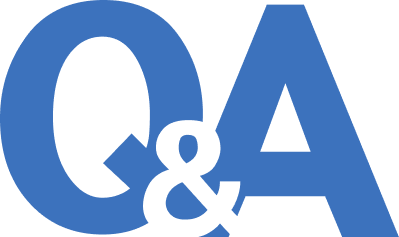
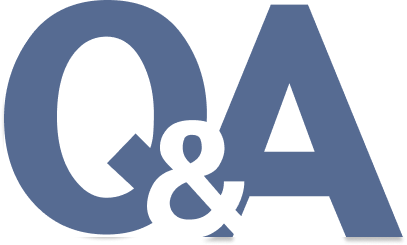
캘린더 구현

diff --git a/lib/screens/login.dart b/lib/screens/login.dart
@@ -24,7 +24,6 @@ class Login extends StatelessWidget {
         accessToken: googleAuth.accessToken,
         idToken: googleAuth.idToken,
       );
-      print(googleAuth.idToken);
 
       final UserCredential userCredential = await _auth.signInWithCredential(credential);
       final User? user = userCredential.user;
@@ -34,25 +33,19 @@ class Login extends StatelessWidget {
         return;
       }
 
+      // /api/login 요청
       final response = await http.post(
         Uri.parse('http://172.30.1.94:8088/api/login'),
         headers: {
           'Content-Type': 'application/json',
           'Authorization': 'Bearer ${googleAuth.idToken}',
         },
-        body: jsonEncode({}),
       );
-
-      print('응답 status code: ${response.statusCode}');
-      print('응답 body: ${response.body}');
 
       if (response.statusCode == 200) {
         final jsonResponse = jsonDecode(response.body);
-        print('에레레레레 $jsonResponse');
         final success = jsonResponse['success'] ?? false;
-        if (jsonResponse['data'] is Map<String, dynamic>) {
-          final Map<String, dynamic> userData = jsonResponse['data'];
-        }
+
         if (!success) {
           ScaffoldMessenger.of(context).showSnackBar(SnackBar(content: Text('로그인 실패')));
           return;
@@ -61,6 +54,7 @@ class Login extends StatelessWidget {
         final userType = jsonResponse['data']['userType'];
         final isNewUser = jsonResponse['data']['isNewUser'] ?? false;
 
+        // 신규 교사 → 교무실 위치, 담당과목 입력 팝업
         if (userType == "TEACHER" && isNewUser) {
           await showDialog(
             context: context,
@@ -101,16 +95,19 @@ class Login extends StatelessWidget {
             },
           );
         } else {
+          // 학생 또는 기존 선생님
           Navigator.pushReplacement(
             context,
             MaterialPageRoute(builder: (context) => Home()),
           );
         }
       } else if (response.statusCode == 403) {
+        // 학교 이메일 아님
         ScaffoldMessenger.of(context).showSnackBar(
           SnackBar(content: Text('학교 이메일이 아닙니다. 다른 계정으로 로그인해주세요.')),
         );
-        await _googleSignIn.signOut();
+
+        await _googleSignIn.signOut(); // 현재 계정 로그아웃
       } else if (response.statusCode == 401) {
         ScaffoldMessenger.of(context).showSnackBar(
           SnackBar(content: Text('인증 실패: 유효하지 않은 토큰')),
@@ -121,7 +118,7 @@ class Login extends StatelessWidget {
         );
       }
     } catch (e) {
-      print('또 실패구나~: $e');
+      print('로그인 오류: $e');
       ScaffoldMessenger.of(context).showSnackBar(SnackBar(content: Text('에엑따')));
     }
   }
@@ -129,6 +126,7 @@ class Login extends StatelessWidget {
   @override
   Widget build(BuildContext context) {
     return Scaffold(
+      //backgroundColor: Colors.white,
       body: Padding(
         padding: const EdgeInsets.symmetric(horizontal: 24.0),
         child: Center(
@@ -139,8 +137,8 @@ class Login extends StatelessWidget {
                 'assets/images/Q&A.png',
                 width: 145,
                 fit: BoxFit.contain,
-              ),
-              SizedBox(height: 40),
+              ), SizedBox(height: 40),
+
               Text(
                 '학교 이메일로 로그인해주세요.',
                 style: TextStyle(
@@ -148,6 +146,7 @@ class Login extends StatelessWidget {
                   color: Colors.black45,
                 ),
               ),
+
               SizedBox(height: 25),
               OutlinedButton.icon(
                 onPressed: () => _handleGoogleLogin(context),

diff --git a/lib/screens/option.dart b/lib/screens/option.dart
@@ -1,0 +1,87 @@
+import 'package:flutter/cupertino.dart';
+import 'package:flutter/material.dart';
+import 'package:qna_frontend/screens/calendar.dart';
+import 'package:qna_frontend/screens/home_input.dart';
+
+import 'chat.dart';
+import 'home.dart';
+
+class Option extends StatelessWidget {
+  @override
+  Widget build(BuildContext context) {
+    return Scaffold(
+      //backgroundColor: Colors.white,
+      body: Stack( //네비게이션 바
+        children: [
+        Positioned(
+        top: 0,
+        left: 0,
+        right: 0,
+        child: Image.asset(
+          'assets/images/topNav.png',
+          fit: BoxFit.cover,
+            ),
+          ),
+          Positioned( //옵션
+            top: 46,
+            left: 0,
+            right: 0,
+            child: Container(
+              height: 60,
+              color: Color(0xFF566B92),
+              padding: EdgeInsets.fromLTRB(25, 8, 25, 0),
+              child: Align(
+                alignment: Alignment.topLeft,
+                child: Text(
+                  '옵션',
+                  style: TextStyle(
+                    color: Colors.white,
+                    fontSize: 23,
+                  ),
+                ),
+              ),
+            ),
+          ),
+
+
+          Positioned( // 하단 탭 바
+            bottom: 0,
+            left: 0,
+            right: 0,
+            child: Container(
+              color: Color(0xFF566B92),
+              padding: EdgeInsets.symmetric(vertical: 10),
+              child: Row(
+                mainAxisAlignment: MainAxisAlignment.spaceAround,
+                children: [
+                  IconButton(
+                    icon: Image.asset('assets/btns/mypgDis.png', width: 40, height: 40,),
+                    onPressed: () {},
+                  ),
+                  IconButton(
+                    icon: Image.asset('assets/btns/chatDis.png', width: 40, height: 40,),
+                    onPressed: () {Navigator.push(
+                      context,
+                      MaterialPageRoute(builder: (context) => Home()),
+                    );},
+                  ),
+                  IconButton(
+                    icon: Image.asset('assets/btns/calDis.png', width: 40, height: 40,),
+                    onPressed: () {Navigator.push(
+                      context,
+                      MaterialPageRoute(builder: (context) => Calendar()),
+                    );},
+                  ),
+                  IconButton(
+                    icon: Image.asset('assets/btns/optAct.png', width: 40, height: 40,),
+                    onPressed: () {},
+                  ),
+                ],
+              ),
+            ),
+          ),
+        ],
+      ),
+    );
+  }
+}

diff --git a/lib/screens/calendar.dart b/lib/screens/calendar.dart
@@ -1,6 +1,7 @@
 import 'package:flutter/material.dart';
 import 'package:table_calendar/table_calendar.dart';
 import 'home.dart';
+import 'option.dart';
 
 class Calendar extends StatefulWidget {
   @override
@@ -63,12 +64,12 @@ class _CalendarState extends State<Calendar> {
 
           // 타이틀 바
           Positioned(
-            top: 40,
+            top: 46,
             left: 0,
             right: 0,
             child: Container(
               height: 60,
-              color: Color(0xFF3C72BD),
+              color: Color(0xFF566B92),
               padding: EdgeInsets.fromLTRB(25, 8, 25, 0),
               child: Align(
                 alignment: Alignment.topLeft,
@@ -162,7 +163,7 @@ class _CalendarState extends State<Calendar> {
             left: 0,
             right: 0,
             child: Container(
-              color: Color(0xFF3C72BD),
+              color: Color(0xFF566B92),
               padding: EdgeInsets.symmetric(vertical: 10),
               child: Row(
                 mainAxisAlignment: MainAxisAlignment.spaceAround,
@@ -189,7 +190,7 @@ class _CalendarState extends State<Calendar> {
                     onPressed: () {
                       Navigator.push(
                         context,
-                        MaterialPageRoute(builder: (context) => Home()),
+                        MaterialPageRoute(builder: (context) => Option()),
                       );
                     },
                   ),

diff --git a/lib/screens/home.dart b/lib/screens/home.dart
@@ -1,7 +1,9 @@
 import 'package:flutter/cupertino.dart';
 import 'package:flutter/material.dart';
 import 'package:qna_frontend/screens/home_input.dart';
+import 'package:qna_frontend/screens/option.dart';
 
+import 'calendar.dart';
 import 'chat.dart';
 
 class Home extends StatelessWidget {
@@ -21,7 +23,7 @@ class Home extends StatelessWidget {
             ),
           ),
           Positioned( //채팅 + 검색 아이콘
-            top: 42,
+            top: 40,
             left: 0,
             right: 0,
             child: Container(
@@ -171,11 +173,19 @@ class Home extends StatelessWidget {
                   ),
                   IconButton(
                     icon: Image.asset('assets/btns/calDis.png', width: 40, height: 40,),
-                    onPressed: () {},
+                    onPressed: () {
+                      Navigator.push(
+                      context,
+                      MaterialPageRoute(builder: (context) => Calendar()),
+                    );
+                      },
                   ),
                   IconButton(
                     icon: Image.asset('assets/btns/optDis.png', width: 40, height: 40,),
-                    onPressed: () {},
+                    onPressed: () {Navigator.push(
+                      context,
+                      MaterialPageRoute(builder: (context) => Option()),
+                    );},
                   ),
                 ],
               ),

diff --git a/lib/main.dart b/lib/main.dart
@@ -24,7 +24,7 @@ class QAApp extends StatelessWidget {
         primarySwatch: Colors.indigo,
         scaffoldBackgroundColor: Color(0xFFF5F5F5),
       ),
-      home: Chat(),
+      home: Home(),
       debugShowCheckedModeBanner: false,
     );
   }
